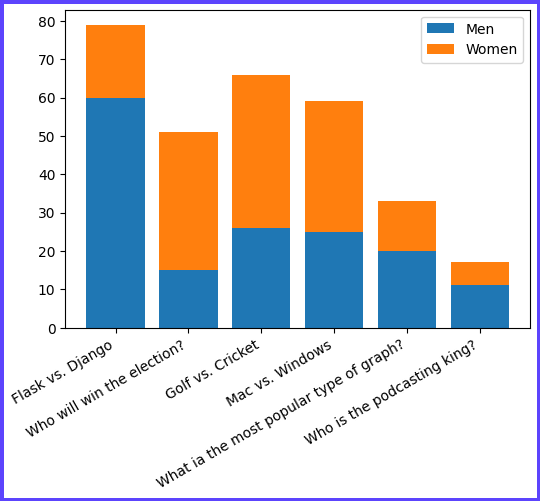
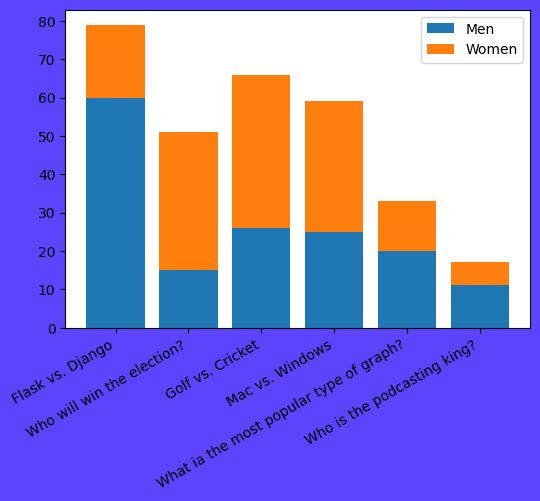
how to create a custom legend

diff --git a/Charting data/pysql-course-projectst/matplotlib-polls/app.py b/Charting data/pysql-course-projectst/matplotlib-polls/app.py
@@ -7,7 +7,7 @@ poll_women = [poll[2] for poll in polls]
 
 poll_x_coordinates = range(len(polls))
 
-figure = plt.figure(figsize=(6, 6), linewidth=5)
+figure = plt.figure(figsize=(6, 6))
 figure.subplots_adjust(bottom=0.35)
 axes = figure.add_subplot()
 
@@ -24,5 +24,5 @@ women_plot = axes.bar(
 axes.legend((men_plot, women_plot), ("Men", "Women"))
 
 plt.xticks(poll_x_coordinates, poll_titles, rotation=30, ha="right")
-plt.show()
-#figure.savefig("graph.png", bbox_inches="tight", edgecolor="#5c44fd")
+# plt.show()
+figure.savefig("graph.png", bbox_inches="tight", facecolor="#5c44fd")

diff --git a/Charting data/pysql-course-projectst/matplotlib-polls/02app.py b/Charting data/pysql-course-projectst/matplotlib-polls/02app.py
@@ -1,0 +1,22 @@
+import matplotlib.pyplot as plt
+from matplotlib.patches import Patch
+
+figure = plt.figure()
+axes = figure.add_subplot()
+
+axes.bar(
+    range(6),
+    [150, 90, 78, 55, 123, 190],
+    tick_label=["Apple", "Mr Price", "Google", "Mango", "Microsoft", "Suprdry"],
+    color=["#5c44fd", "#ff5566", "#5c44fd", "ff5566", "#5c44fd", "ff5566"],
+)
+
+handles = [
+    Patch(facecolor="#5c44fd", label="Tech"),
+    Patch(facecolor="#ff5566", label="Clothing")
+]
+
+plt.legend(handles=handles)
+
+plt.xticks(rotation=30, ha="right")
+plt.show()
